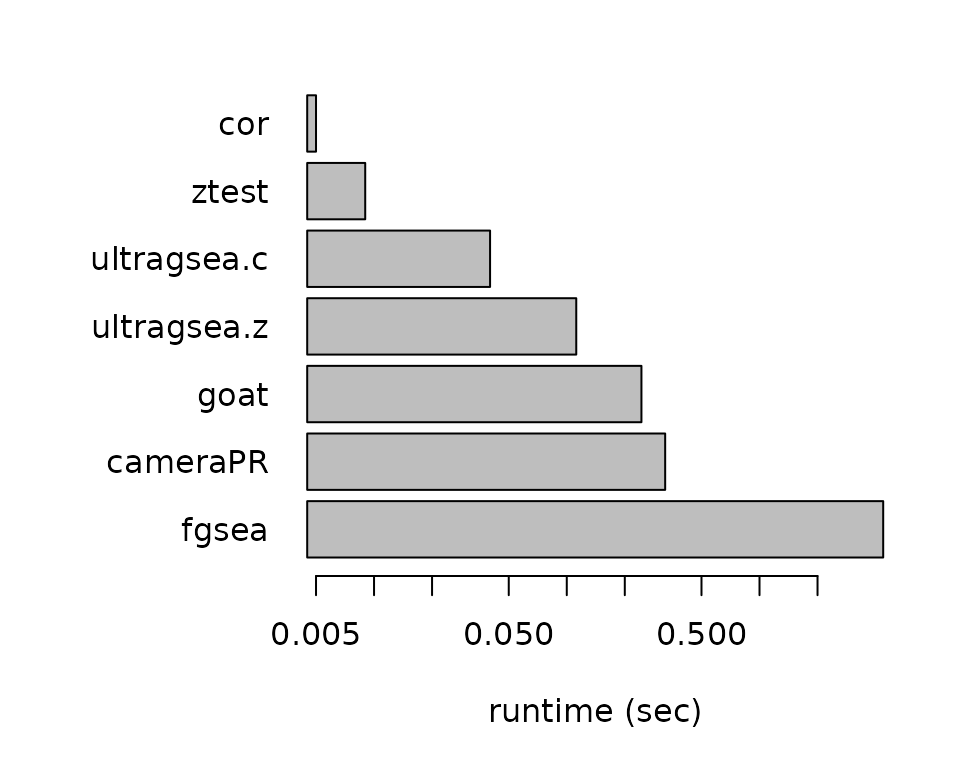
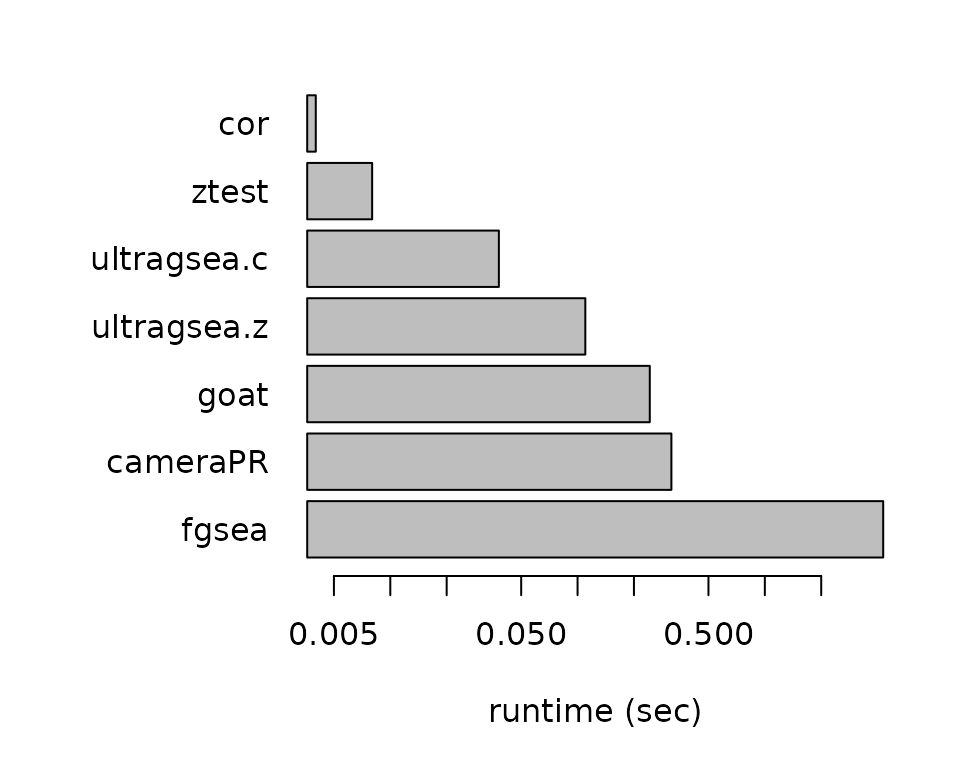
Deploying to gh-pages from @ bigomics/ultragsea@8e51b31b75144139843bdbecaa4d4b5eda468a9f 🚀

diff --git a/articles/compare-methods.html b/articles/compare-methods.html
@@ -165,43 +165,43 @@ of each method.</p>
 <tbody>
 <tr class="odd">
 <td align="left">fgsea</td>
-<td align="right">4.383</td>
+<td align="right">4.286</td>
 <td align="right">4.1</td>
 <td align="right">43.9</td>
 </tr>
 <tr class="even">
 <td align="left">cameraPR</td>
-<td align="right">0.324</td>
+<td align="right">0.317</td>
 <td align="right">0.8</td>
 <td align="right">42.6</td>
 </tr>
 <tr class="odd">
 <td align="left">ultragsea.z</td>
-<td align="right">0.112</td>
+<td align="right">0.110</td>
 <td align="right">1.9</td>
 <td align="right">21.3</td>
 </tr>
 <tr class="even">
 <td align="left">ultragsea.c</td>
-<td align="right">0.040</td>
+<td align="right">0.038</td>
 <td align="right">0.9</td>
 <td align="right">8.9</td>
 </tr>
 <tr class="odd">
 <td align="left">cor</td>
-<td align="right">0.005</td>
+<td align="right">0.004</td>
 <td align="right">0.0</td>
 <td align="right">2.8</td>
 </tr>
 <tr class="even">
 <td align="left">ztest</td>
-<td align="right">0.009</td>
+<td align="right">0.008</td>
 <td align="right">0.0</td>
 <td align="right">6.5</td>
 </tr>
 <tr class="odd">
 <td align="left">goat</td>
-<td align="right">0.244</td>
+<td align="right">0.243</td>
 <td align="right">4.5</td>
 <td align="right">23.7</td>
 </tr>

diff --git a/articles/ultragsea.html b/articles/ultragsea.html
@@ -174,7 +174,7 @@ functions of the fgsea package.</p>
 <span><span class="co">#&gt;  [4] dplyr_1.1.4              compiler_4.5.2           BiocManager_1.30.27     </span></span>
 <span><span class="co">#&gt;  [7] Rcpp_1.1.0               tidyselect_1.2.1         slam_0.1-55             </span></span>
 <span><span class="co">#&gt; [10] parallel_4.5.2           assertthat_0.2.1         jquerylib_0.1.4         </span></span>
-<span><span class="co">#&gt; [13] systemfonts_1.3.1        textshaping_1.0.4        yaml_2.3.10             </span></span>
+<span><span class="co">#&gt; [13] systemfonts_1.3.1        textshaping_1.0.4        yaml_2.3.11             </span></span>
 <span><span class="co">#&gt; [16] fastmap_1.2.0            lattice_0.22-7           R6_2.6.1                </span></span>
 <span><span class="co">#&gt; [19] generics_0.1.4           qlcMatrix_0.9.9          curl_7.0.0              </span></span>
 <span><span class="co">#&gt; [22] knitr_1.50               tibble_3.3.0             bookdown_0.45           </span></span>

diff --git a/articles/compare-methods.md b/articles/compare-methods.md
@@ -96,13 +96,13 @@ kableExtra::kable(tt)
 
 | Function_Call | Elapsed_Time_sec | Total_RAM_Used_MiB | Peak_RAM_Used_MiB |
 |:--------------|-----------------:|-------------------:|------------------:|
-| fgsea         |            4.383 |                4.1 |              43.9 |
-| cameraPR      |            0.324 |                0.8 |              42.6 |
-| ultragsea.z   |            0.112 |                1.9 |              21.3 |
-| ultragsea.c   |            0.040 |                0.9 |               8.9 |
-| cor           |            0.005 |                0.0 |               2.8 |
-| ztest         |            0.009 |                0.0 |               6.5 |
-| goat          |            0.244 |                4.5 |              23.7 |
+| fgsea         |            4.286 |                4.1 |              43.9 |
+| cameraPR      |            0.317 |                0.8 |              42.6 |
+| ultragsea.z   |            0.110 |                1.9 |              21.3 |
+| ultragsea.c   |            0.038 |                0.9 |               8.9 |
+| cor           |            0.004 |                0.0 |               2.8 |
+| ztest         |            0.008 |                0.0 |               6.5 |
+| goat          |            0.243 |                4.5 |              23.7 |
 
 ``` r
 rt <- tt[,2]

diff --git a/articles/ultragsea.md b/articles/ultragsea.md
@@ -111,7 +111,7 @@ sessionInfo()
 #>  [4] dplyr_1.1.4              compiler_4.5.2           BiocManager_1.30.27     
 #>  [7] Rcpp_1.1.0               tidyselect_1.2.1         slam_0.1-55             
 #> [10] parallel_4.5.2           assertthat_0.2.1         jquerylib_0.1.4         
-#> [13] systemfonts_1.3.1        textshaping_1.0.4        yaml_2.3.10             
+#> [13] systemfonts_1.3.1        textshaping_1.0.4        yaml_2.3.11             
 #> [16] fastmap_1.2.0            lattice_0.22-7           R6_2.6.1                
 #> [19] generics_0.1.4           qlcMatrix_0.9.9          curl_7.0.0              
 #> [22] knitr_1.50               tibble_3.3.0             bookdown_0.45           
